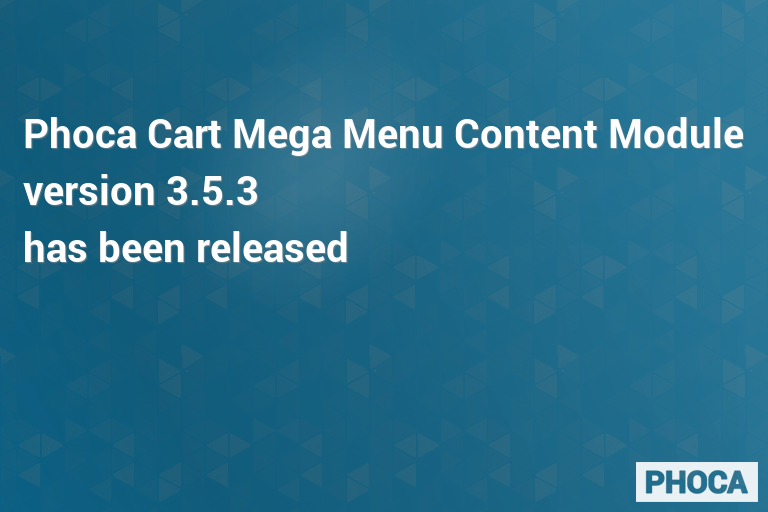
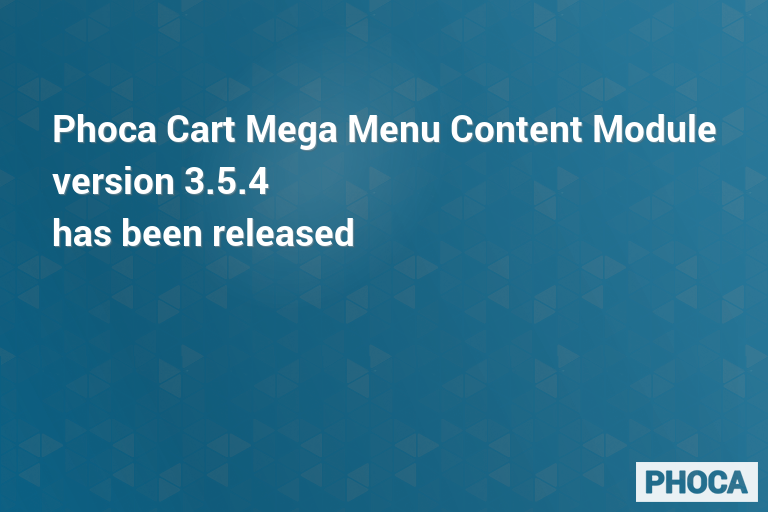
3.5.4
3.5.4

Changed region(s): [[0.0312, 0.2188, 0.9688, 0.5312]]

diff --git a/README.MD b/README.MD
@@ -56,7 +56,7 @@ Phoca Cart Mega Menu Content Module - a Joomla! CMS module which displays conten
 
 ## Version
 
-3.5.3
+3.5.4
 
 
 
